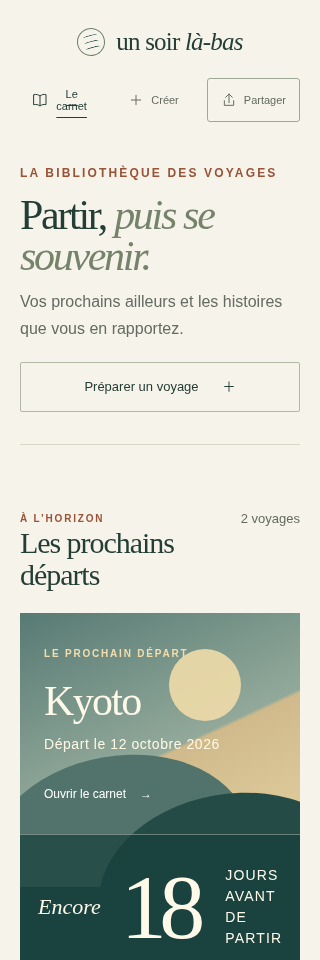
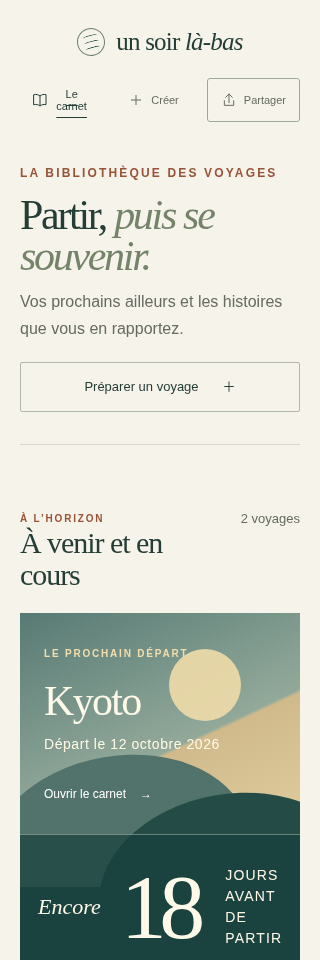
fix: complete travel library lifecycle and preserve personal hierarchy

Changed region(s): [[0.0625, 0.5312, 0.5312, 0.625]]

diff --git a/src/components/UpcomingTrips.tsx b/src/components/UpcomingTrips.tsx
@@ -39,6 +39,7 @@ export default function UpcomingTrips({ openJournal, journals = [] }: { openJour
   const futureTrips = trips.filter(trip => !tripIsPast(trip, now))
   const pastTrips = trips.filter(trip => tripIsPast(trip, now))
   const next = futureTrips.find(trip => (daysUntil(trip.departure, now) ?? -1) >= 0)
+  const nextCover = journals.find(item => item.tripId === next?.id)?.chapters.map(chapter => coverOf(chapter)).find(Boolean)
 
   function startEdit(trip?: UpcomingTrip, opener?: HTMLButtonElement) {
     if (opener) openerRef.current = opener
@@ -66,8 +67,8 @@ export default function UpcomingTrips({ openJournal, journals = [] }: { openJour
     event.preventDefault()
     if (stored.error) return
     const name = destination.trim()
-    if (!name || name.length > 80 || !departure || departure < today || daysUntil(departure, now) === null) {
-      setMessage('Indiquez une destination et une date de départ valide, aujourd’hui ou plus tard.'); return
+    if (!name || name.length > 80 || !departure || daysUntil(departure, now) === null || (!editing && departure < today)) {
+      setMessage('Indiquez une destination et une date de départ valide, aujourd’hui ou plus tard pour un nouveau voyage.'); return
     }
     if (endDate && (daysUntil(endDate, now) === null || endDate < departure)) {
       setMessage('La date de fin doit être valide et ne peut pas précéder le départ.'); return
@@ -86,6 +87,16 @@ export default function UpcomingTrips({ openJournal, journals = [] }: { openJour
     if (save(updated)) closeForm(successMessage)
   }
 
+  function setCompleted(tripId: string, completed: boolean) {
+    save(stored.trips.map(trip => {
+      if (trip.id !== tripId) return trip
+      if (completed) return { ...trip, completed: true }
+      const reopened = { ...trip }
+      delete reopened.completed
+      return reopened
+    }))
+  }
+
   const archivedJournalIds = new Set(trips.map(trip => trip.id))
   const orphanJournals = journals.filter(journal => !archivedJournalIds.has(journal.tripId))
   const allPastCount = pastTrips.length + orphanJournals.length
@@ -99,9 +110,9 @@ export default function UpcomingTrips({ openJournal, journals = [] }: { openJour
     {stored.error && <p role="alert" className="error-message">{stored.error}</p>}
     {message && <p role="alert" className="error-message">{message}</p>}
     <section className="library-upcoming" aria-labelledby="future-title">
-      <div className="library-section-heading"><div><p className="eyebrow">À l’horizon</p><h2 id="future-title">Les prochains départs</h2></div><span>{futureTrips.length} voyage{futureTrips.length === 1 ? '' : 's'}</span></div>
+      <div className="library-section-heading"><div><p className="eyebrow">À l’horizon</p><h2 id="future-title">À venir et en cours</h2></div><span>{futureTrips.length} voyage{futureTrips.length === 1 ? '' : 's'}</span></div>
       {next ? <article className="next-departure" aria-label={`Prochain départ : ${next.destination}`}>
-        <div className="next-landscape" aria-hidden="true"><span className="landscape-sun"/><span className="landscape-ridge ridge-back"/><span className="landscape-ridge ridge-front"/></div>
+        <div className="next-landscape" aria-hidden="true">{nextCover ? <img src={nextCover.src} alt="" /> : <><span className="landscape-sun"/><span className="landscape-ridge ridge-back"/><span className="landscape-ridge ridge-front"/></>}</div>
         <div className="next-copy"><span className="eyebrow">Le prochain départ</span><h3>{next.destination}</h3><p className="upcoming-date">Départ le {dateLabel(next.departure)}{next.endDate ? ` · retour le ${dateLabel(next.endDate)}` : ''}</p><button className="text-button" onClick={() => openJournal(next)}>Ouvrir le carnet <span aria-hidden="true">→</span></button></div>
         <div className="next-count upcoming-big-number"><span>{daysUntil(next.departure, now) === 0 ? 'Aujourd’hui' : 'Encore'}</span><strong>{daysUntil(next.departure, now) === 0 ? 'J' : daysUntil(next.departure, now)}</strong><span>{daysUntil(next.departure, now) === 0 ? 'C’est le grand départ' : 'jours avant de partir'}</span></div>
       </article> : <div className="library-empty"><span className="eyebrow">L’horizon vous attend</span><p>Le prochain départ se prépare ici.</p><span>Ajoutez une destination pour commencer votre collection.</span></div>}
@@ -110,7 +121,7 @@ export default function UpcomingTrips({ openJournal, journals = [] }: { openJour
         return <article key={trip.id} data-testid="upcoming-trip" className="trip-card trip-card-future">
           <div className="trip-card-art" aria-hidden="true"><span>{trip.destination.slice(0, 1).toLocaleUpperCase('fr-FR')}</span><i/></div>
           <div className="trip-card-body"><span className="eyebrow">{remaining < 0 ? 'Voyage en cours · fin non renseignée' : remaining === 0 ? 'Départ aujourd’hui' : `J−${remaining}`}</span><h3>{trip.destination}</h3><div className="upcoming-trip-copy"><p>{dateLabel(trip.departure)}{trip.endDate ? ` — ${dateLabel(trip.endDate)}` : ''}</p></div>
-            <div className="trip-card-actions upcoming-actions"><button className="text-button" onClick={() => openJournal(trip)}>Carnet</button><button className="text-button" onClick={event => startEdit(trip, event.currentTarget)} disabled={!!stored.error} aria-label={`Modifier ${trip.destination}`}>Modifier</button><button className="text-button" onClick={() => save(stored.trips.filter(item => item.id !== trip.id))} disabled={!!stored.error} aria-label={`Retirer ${trip.destination}`}>Retirer</button></div>
+            <div className="trip-card-actions upcoming-actions"><button className="text-button" onClick={() => openJournal(trip)}>Carnet</button><button className="text-button" onClick={event => startEdit(trip, event.currentTarget)} disabled={!!stored.error} aria-label={`Modifier ${trip.destination}`}>Modifier</button>{remaining < 0 && <button className="text-button" onClick={() => setCompleted(trip.id, true)} disabled={!!stored.error} aria-label={`Terminer ${trip.destination}`}>Terminer</button>}<button className="text-button" onClick={() => save(stored.trips.filter(item => item.id !== trip.id))} disabled={!!stored.error} aria-label={`Retirer ${trip.destination}`}>Retirer</button></div>
           </div>
         </article>
       })}</div>}
@@ -123,7 +134,7 @@ export default function UpcomingTrips({ openJournal, journals = [] }: { openJour
           const cover = journal?.chapters.map(chapter => coverOf(chapter)).find(Boolean)
           return <article className="memory-card" data-testid="past-trip" key={trip.id}>
             <div className={`memory-cover ${cover ? '' : 'memory-cover-type'}`}>{cover ? <img src={cover.src} alt={`Couverture du carnet ${trip.destination} : ${cover.name}`} /> : <div><span>Carnet de voyage</span><strong>{trip.destination}</strong><small>{trip.endDate ? dateLabel(trip.endDate) : ''}</small></div>}</div>
-            <div className="memory-info"><span className="eyebrow">Souvenir · {journal?.chapters.length ?? 0} chapitre{journal?.chapters.length === 1 ? '' : 's'}</span><h3>{trip.destination}</h3><p>{dateLabel(trip.departure)}{trip.endDate ? ` — ${dateLabel(trip.endDate)}` : ''}</p><button className="text-button" onClick={() => openJournal(trip)}>Ouvrir le carnet →</button></div>
+            <div className="memory-info"><span className="eyebrow">Souvenir · {journal?.chapters.length ?? 0} chapitre{journal?.chapters.length === 1 ? '' : 's'}</span><h3>{trip.destination}</h3><p>{dateLabel(trip.departure)}{trip.endDate ? ` — ${dateLabel(trip.endDate)}` : ''}</p><button className="text-button" onClick={() => openJournal(trip)}>Ouvrir le carnet →</button><button className="text-button" onClick={event => startEdit(trip, event.currentTarget)} disabled={!!stored.error} aria-label={`Modifier ${trip.destination}`}>Modifier</button>{trip.completed && (!trip.endDate || trip.endDate >= today) && <button className="text-button" onClick={() => setCompleted(trip.id, false)} disabled={!!stored.error} aria-label={`Reprendre ${trip.destination}`}>Reprendre</button>}</div>
           </article>
         })}
         {orphanJournals.map(journal => {
@@ -136,12 +147,12 @@ export default function UpcomingTrips({ openJournal, journals = [] }: { openJour
         })}
       </div>}
     </section>
-    <p className="local-note library-note">Voyages, dates et carnets restent sur cet appareil. Les dates de fin sont facultatives ; seul un retour déjà passé classe un voyage parmi les souvenirs.</p>
+    <p className="local-note library-note">Voyages, dates et carnets restent sur cet appareil. La date de fin est facultative : après le départ, vous pouvez aussi terminer un voyage manuellement.</p>
     {open && <form className="upcoming-form" role="region" aria-labelledby="upcoming-form-title" onKeyDown={event => { if (event.key === 'Escape') closeForm('Préparation du voyage annulée.') }} onSubmit={submit}>
       <div><p className="eyebrow">Votre prochaine escale</p><h3 id="upcoming-form-title">{editing ? 'Changer le cap' : 'Faire place à l’attente'}</h3></div>
       <label>Destination<input ref={destinationRef} name="destination" value={destination} onChange={event => setDestination(event.target.value)} maxLength={80} required /></label>
       <label>Date de départ<input name="departure" type="date" value={departure} min={editing && departure < today ? departure : today} onChange={event => setDeparture(event.target.value)} required /></label>
-      <label>Date de fin (facultative)<input name="endDate" type="date" value={endDate} min={departure || today} onChange={event => setEndDate(event.target.value)} aria-describedby="end-date-help" /></label><p id="end-date-help" className="date-help">Sans date de fin, votre voyage ne sera jamais classé comme terminé automatiquement.</p>
+      <label>Date de fin (facultative)<input name="endDate" type="date" value={endDate} min={departure || today} onChange={event => setEndDate(event.target.value)} aria-describedby="end-date-help" /></label><p id="end-date-help" className="date-help">Sans date de fin, vous pourrez classer ce voyage parmi les souvenirs avec « Terminer » après le départ.</p>
       <div className="upcoming-form-actions"><button className="button" type="submit">{editing ? 'Enregistrer les modifications' : 'Ajouter au décompte'}</button><button className="text-button" type="button" onClick={() => closeForm('Modifications annulées.')}>Annuler</button></div>
     </form>}
   </section>

diff --git a/src/components/Home.tsx b/src/components/Home.tsx
@@ -8,6 +8,20 @@ import '../travel-library.css'
 export default function Home({ openDay, create, drafts, openDraft, editDraft, trip, onRestore, onOpenJournal, journals }: { openDay: (day: number) => void; create: () => void; drafts: Draft[]; openDraft: (draft: Draft) => void; editDraft: (draft: Draft) => void; trip: import('../journal').Trip; onRestore: (trip: import('../journal').Trip) => void; onOpenJournal: (trip: import('../upcoming-trips').UpcomingTrip) => void; journals: import('../trip-journals').PersonalJournal[] }) {
   return <>
     <UpcomingTrips openJournal={onOpenJournal} journals={journals} />
+    {drafts.length > 0 && <section className="saved-drafts page-width" aria-labelledby="drafts-title"><p className="eyebrow">Conservés sur cet appareil</p><h2 id="drafts-title">Vos nouvelles pages</h2>{drafts.map(draft => {
+      const cover = coverOf(draft)
+      return <article key={draft.id} className="personal-entry">
+        <div className={`personal-cover ${cover ? '' : 'cover-without-photo'}`}>
+          {cover ? <img src={cover.src} alt={`Couverture : ${cover.name}`} /> : <><Icon name="book" /><p>Il reste les mots.</p></>}
+        </div>
+        <div className="day-copy"><span className="status draft"><i />Brouillon personnel</span><h3>{draft.title}</h3><p>{storyExcerpt(draft.story)}</p>
+          <div className="personal-actions">
+            <button className="text-button" onClick={() => openDraft(draft)} aria-label={`Lire ${draft.title}`}>Lire ce chapitre<Icon name="arrow" /></button>
+            <button className="text-button" onClick={() => editDraft(draft)} aria-label={`Modifier ${draft.title}`}>Modifier la journée<Icon name="book" /></button>
+          </div>
+        </div>
+      </article>
+    })}</section>}
     <section className="demo-trip page-width" aria-labelledby="demo-trip-title">
       <p className="eyebrow">Voyage de démonstration · distinct de vos voyages</p>
       <h2 id="demo-trip-title">Un carnet pour découvrir le format.</h2>
@@ -19,7 +33,7 @@ export default function Home({ openDay, create, drafts, openDraft, editDraft, tr
       <div className="hero-top"><span className="eyebrow">Carnet de voyage · Asie du Sud-Est</span><span className="coordinates">11°10′ N — 119°24′ E</span></div>
       <div className="hero-copy">
         <p className="eyebrow">Loin du quotidien. Tout près de l’essentiel.</p>
-        <h1 id="trip-title">Philippines<span>18 jours entre îles et lumière</span></h1>
+        <h2 id="trip-title">Philippines<span>18 jours entre îles et lumière</span></h2>
         <button className="button button-light" onClick={() => openDay(3)} aria-label="Découvrir le jour 3">Ouvrir le carnet <Icon name="arrow" /></button>
       </div>
       <div className="hero-bottom"><span>Manille <i /> Palawan <i /> Bohol</span><span>18 jours <span className="divider">/</span> Mille façons de se souvenir</span></div>
@@ -41,20 +55,6 @@ export default function Home({ openDay, create, drafts, openDraft, editDraft, tr
       </div>
     </section>
     <Backup trip={trip} onRestore={onRestore} />
-    {drafts.length > 0 && <section className="saved-drafts page-width" aria-labelledby="drafts-title"><p className="eyebrow">Conservés sur cet appareil</p><h2 id="drafts-title">Vos nouvelles pages</h2>{drafts.map(draft => {
-      const cover = coverOf(draft)
-      return <article key={draft.id} className="personal-entry">
-        <div className={`personal-cover ${cover ? '' : 'cover-without-photo'}`}>
-          {cover ? <img src={cover.src} alt={`Couverture : ${cover.name}`} /> : <><Icon name="book" /><p>Il reste les mots.</p></>}
-        </div>
-        <div className="day-copy"><span className="status draft"><i />Brouillon personnel</span><h3>{draft.title}</h3><p>{storyExcerpt(draft.story)}</p>
-          <div className="personal-actions">
-            <button className="text-button" onClick={() => openDraft(draft)} aria-label={`Lire ${draft.title}`}>Lire ce chapitre<Icon name="arrow" /></button>
-            <button className="text-button" onClick={() => editDraft(draft)} aria-label={`Modifier ${draft.title}`}>Modifier la journée<Icon name="book" /></button>
-          </div>
-        </div>
-      </article>
-    })}</section>}
     <section className="invitation page-width"><span className="eyebrow">Le rituel du soir</span><h2>Et aujourd’hui,<br />qu’allez-vous <em>garder</em> ?</h2><p>Quelques photos. Vos mots. Une nouvelle page du voyage.</p><button className="button" onClick={create}>Raconter ma journée <Icon name="plus" /></button><span className="local-note">Votre carnet reste sur cet appareil.</span></section>
   </>
 }

diff --git a/tests/acceptance.spec.ts b/tests/acceptance.spec.ts
@@ -91,7 +91,7 @@ test('bibliothèque classe les voyages selon une fin explicite et conserve les a
     { id: 'ending-today', destination: 'Bohol', departure: past, endDate: today },
   ])), { future: iso(30), past: iso(-30), today: iso(0) })
   await page.reload()
-  await expect(page.getByRole('heading', { name: /prochains départs/i })).toBeVisible()
+  await expect(page.getByRole('heading', { name: /à venir et en cours/i })).toBeVisible()
   await expect(page.getByTestId('upcoming-trip')).toHaveCount(3)
   await expect(page.getByTestId('past-trip')).toHaveCount(1)
   await expect(page.getByTestId('past-trip')).toContainText('Lisbonne')
@@ -132,6 +132,47 @@ test('création accepte une date de fin facultative et rejette une fin antérieu
   await expect(page.getByTestId('upcoming-trip')).toContainText('Kyoto')
   const stored = await page.evaluate(() => JSON.parse(localStorage.getItem('un-soir-la-bas-upcoming-v1') || '[]'))
   expect(stored.find((trip: { destination: string }) => trip.destination === 'Kyoto')).not.toHaveProperty('endDate')
+})
+
+test('voyages en cours et terminés gardent leur date de départ lors de la modification', async ({ page }) => {
+  const iso = (offset: number) => {
+    const date = new Date()
+    date.setDate(date.getDate() + offset)
+    return `${date.getFullYear()}-${String(date.getMonth() + 1).padStart(2, '0')}-${String(date.getDate()).padStart(2, '0')}`
+  }
+  await page.goto('/')
+  await page.evaluate(({ departure, ended }) => localStorage.setItem('un-soir-la-bas-upcoming-v1', JSON.stringify([
+    { id: 'ongoing', destination: 'Népal', departure },
+    { id: 'completed', destination: 'Lisbonne', departure, endDate: ended },
+  ])), { departure: iso(-30), ended: iso(-10) })
+  await page.reload()
+  await page.getByRole('button', { name: 'Modifier Népal' }).click()
+  await page.getByLabel('Date de fin (facultative)').fill(iso(5))
+  await page.getByRole('button', { name: /enregistrer les modifications/i }).click()
+  await expect(page.getByTestId('upcoming-trip').filter({ hasText: 'Népal' })).toBeVisible()
+  const memory = page.getByTestId('past-trip').filter({ hasText: 'Lisbonne' })
+  await memory.getByRole('button', { name: 'Modifier Lisbonne' }).click()
+  await page.getByLabel('Destination').fill('Lisbonne revisitée')
+  await page.getByRole('button', { name: /enregistrer les modifications/i }).click()
+  await expect(page.getByTestId('past-trip').filter({ hasText: 'Lisbonne revisitée' })).toBeVisible()
+  const stored = await page.evaluate(() => JSON.parse(localStorage.getItem('un-soir-la-bas-upcoming-v1') || '[]'))
+  expect(stored.find((trip: { id: string }) => trip.id === 'ongoing')).toMatchObject({ departure: iso(-30), endDate: iso(5) })
+  expect(stored.find((trip: { id: string }) => trip.id === 'completed')).toMatchObject({ departure: iso(-30), endDate: iso(-10) })
+})
+
+test('un voyage sans date de fin se termine et se reprend explicitement sans perdre son carnet', async ({ page }) => {
+  const yesterday = new Date(); yesterday.setDate(yesterday.getDate() - 1)
+  const departure = `${yesterday.getFullYear()}-${String(yesterday.getMonth() + 1).padStart(2, '0')}-${String(yesterday.getDate()).padStart(2, '0')}`
+  await page.goto('/')
+  await page.evaluate(departure => localStorage.setItem('un-soir-la-bas-upcoming-v1', JSON.stringify([{ id: 'manual', destination: 'Népal', departure }])), departure)
+  await page.reload()
+  await page.getByRole('button', { name: 'Terminer Népal' }).click()
+  await expect(page.getByTestId('past-trip').filter({ hasText: 'Népal' })).toBeVisible()
+  await page.reload()
+  await page.getByRole('button', { name: 'Reprendre Népal' }).click()
+  await expect(page.getByTestId('upcoming-trip').filter({ hasText: 'Népal' })).toBeVisible()
+  const stored = await page.evaluate(() => JSON.parse(localStorage.getItem('un-soir-la-bas-upcoming-v1') || '[]'))
+  expect(stored[0]).not.toHaveProperty('completed')
 })
 
 test('bibliothèque reste lisible sans débordement à 320, 390 et 1440 px', async ({ page }) => {

diff --git a/src/journal.css b/src/journal.css
@@ -46,8 +46,8 @@
 .coordinates { font-size: 9px; letter-spacing: 0.17em; }
 .hero-copy { position: absolute; top: 46%; left: 6.5%; transform: translateY(-42%); }
 .hero-copy > .eyebrow { margin-bottom: 22px; font-size: 9px; }
-.hero-copy h1 { font-size: clamp(72px, 9.4vw, 144px); line-height: 0.96; }
-.hero-copy h1 span { display: block; font-size: clamp(23px, 2.5vw, 37px); font-style: italic; letter-spacing: -0.02em; margin-top: 22px; }
+.hero-copy h2 { font-size: clamp(72px, 9.4vw, 144px); line-height: 0.96; }
+.hero-copy h2 span { display: block; font-size: clamp(23px, 2.5vw, 37px); font-style: italic; letter-spacing: -0.02em; margin-top: 22px; }
 .hero-copy .button { margin-top: 40px; min-width: 208px; }
 .hero-bottom { bottom: 28px; font-size: 10px; align-items: center; letter-spacing: 0.045em; }
 .hero-bottom > span:first-child { display: flex; gap: 18px; align-items: center; }
@@ -314,7 +314,7 @@
   .personal-studio .share-previews { grid-template-columns: minmax(0, 1fr); gap: 28px; max-width: 390px; margin-inline: auto; }
   .page-width { width: calc(100% - 72px); }
   .site-header { padding-inline: 32px; }
-  .hero-copy h1 { font-size: 100px; }
+  .hero-copy h2 { font-size: 100px; }
   .day-entry { grid-template-columns: 58px 1.1fr 1fr; gap: 28px; }
   .day-entry::before { left: 29px; }
   .day-copy h3 { font-size: 29px; }
@@ -351,8 +351,8 @@
   .coordinates { display: none; }
   .hero-copy { top: auto; left: 24px; right: 24px; bottom: 113px; transform: none; }
   .hero-copy > .eyebrow { font-size: 7px; letter-spacing: 0.12em; margin-bottom: 20px; max-width: 240px; }
-  .hero-copy h1 { font-size: clamp(52px, 14vw, 95px); letter-spacing: -0.06em; }
-  .hero-copy h1 span { max-width: 265px; font-size: 25px; line-height: 1.18; margin-top: 18px; letter-spacing: -0.03em; }
+  .hero-copy h2 { font-size: clamp(52px, 14vw, 95px); letter-spacing: -0.06em; }
+  .hero-copy h2 span { max-width: 265px; font-size: 25px; line-height: 1.18; margin-top: 18px; letter-spacing: -0.03em; }
   .hero-copy .button { margin-top: 29px; min-width: 0; font-size: 12px; padding: 13px 18px; min-height: 47px; }
   .hero-bottom { left: 24px; right: 24px; bottom: 26px; flex-direction: column; align-items: flex-start; gap: 12px; font-size: 8px; }
   .hero-bottom > span:first-child { gap: 13px; }

diff --git a/src/upcoming-trips.ts b/src/upcoming-trips.ts
@@ -1,25 +1,26 @@
 import { createId } from './id'
 
 export const upcomingKey = 'un-soir-la-bas-upcoming-v1'
-export type UpcomingTrip = { id: string; destination: string; departure: string; endDate?: string }
+export type UpcomingTrip = { id: string; destination: string; departure: string; endDate?: string; completed?: true }
 
 export function validateUpcomingTrips(value: unknown): value is UpcomingTrip[] {
   return Array.isArray(value) && value.length <= 12 && value.every(item => {
     if (!item || typeof item !== 'object' || Array.isArray(item)) return false
     const trip = item as Record<string, unknown>
     const keys = Object.keys(trip)
-    if (keys.some(key => !['id', 'destination', 'departure', 'endDate'].includes(key)) ||
+    if (keys.some(key => !['id', 'destination', 'departure', 'endDate', 'completed'].includes(key)) ||
       !['id', 'destination', 'departure'].every(key => Object.prototype.hasOwnProperty.call(trip, key)) ||
-      (keys.length !== 3 && keys.length !== 4)) return false
+      keys.length < 3 || keys.length > 5) return false
     if (typeof trip.id !== 'string' || !trip.id || trip.id.length > 160 ||
       typeof trip.destination !== 'string' || !trip.destination.trim() || trip.destination.length > 80 ||
       typeof trip.departure !== 'string' || !dateParts(trip.departure)) return false
-    return !Object.prototype.hasOwnProperty.call(trip, 'endDate') || (typeof trip.endDate === 'string' && Boolean(dateParts(trip.endDate)) && trip.endDate >= trip.departure)
+    return (!Object.prototype.hasOwnProperty.call(trip, 'endDate') || (typeof trip.endDate === 'string' && Boolean(dateParts(trip.endDate)) && trip.endDate >= trip.departure)) &&
+      (!Object.prototype.hasOwnProperty.call(trip, 'completed') || trip.completed === true)
   }) && new Set(value.map(item => item.id)).size === value.length
 }
 
 export function tripIsPast(trip: UpcomingTrip, now: Date): boolean {
-  return Boolean(trip.endDate && trip.endDate < calendarDate(now))
+  return Boolean(trip.completed || (trip.endDate && trip.endDate < calendarDate(now)))
 }
 
 export function calendarDate(date: Date): string {

diff --git a/src/travel-library.css b/src/travel-library.css
@@ -10,6 +10,7 @@
 .library-section-heading > span { padding-bottom:7px; color:var(--muted); font-size:13px; white-space:nowrap; }
 .next-departure { position:relative; isolation:isolate; overflow:hidden; display:grid; grid-template-columns:minmax(0,1fr) minmax(180px,.34fr); min-height:260px; color:#fff9e9; background:#254c46; }
 .next-landscape { position:absolute; z-index:-1; inset:0 22% 0 0; overflow:hidden; background:linear-gradient(155deg,#577a74 0%,#92a99a 51%,#d0ba8b 52%,#e6d4a5 100%); }
+.next-landscape img { display:block; width:100%; height:100%; object-fit:contain; background:#244b45; opacity:.64; }
 .landscape-sun { position:absolute; top:13%; right:21%; width:72px; aspect-ratio:1; border-radius:50%; background:#f0dba8; opacity:.9; }
 .landscape-ridge { position:absolute; bottom:-22%; width:95%; height:70%; border-radius:50% 50% 0 0; transform:rotate(-10deg); }
 .ridge-back { left:-12%; background:#51736b; }
@@ -41,7 +42,7 @@
 .trip-card-actions .text-button { font-size:13px; }
 .memory-card { min-width:0; border:1px solid var(--line); background:#fbfaf5; }
 .memory-cover { display:grid; width:100%; aspect-ratio:1.35; place-items:center; overflow:hidden; background:#e8e7df; }
-.memory-cover img { display:block; width:100%; height:100%; object-fit:cover; }
+.memory-cover img { display:block; width:100%; height:100%; object-fit:contain; }
 .memory-cover-type { padding:20px; background:#e5e6da; }
 .memory-cover-type > div { display:flex; width:min(100%,235px); aspect-ratio:.77; flex-direction:column; align-items:center; justify-content:center; gap:16px; padding:22px; border:1px solid #98a08d; color:#354d43; text-align:center; background:linear-gradient(145deg,#edf0e7,#dce3d5); box-shadow:5px 6px 0 #c7cebf; }
 .memory-cover-type span,.memory-cover-type small { font-size:10px; letter-spacing:.12em; text-transform:uppercase; }

diff --git a/tests/archive.spec.ts b/tests/archive.spec.ts
@@ -5,7 +5,7 @@ import { unzipSync, zipSync } from 'fflate'
 
 const key = 'philippines-trip'
 const upcomingKey = 'un-soir-la-bas-upcoming-v1'
-const upcoming = [{ id: 'voyage-kyoto', destination: 'Kyoto', departure: '2027-04-12' }]
+const upcoming = [{ id: 'voyage-kyoto', destination: 'Kyoto', departure: '2027-04-12', endDate: '2027-04-24' }]
[1 lines of base64/hex data omitted]
 const original = JSON.stringify({ version: 1, drafts: [{ id: 'chapitre-source', title: 'Le départ', memories: 'Un premier café.', tone: 'Spontané', story: 'Le premier matin.', media: [{ id: 'photo-source', name: 'café du matin.jpg', src: photo }], coverId: 'photo-source', status: 'draft' }] })
 
